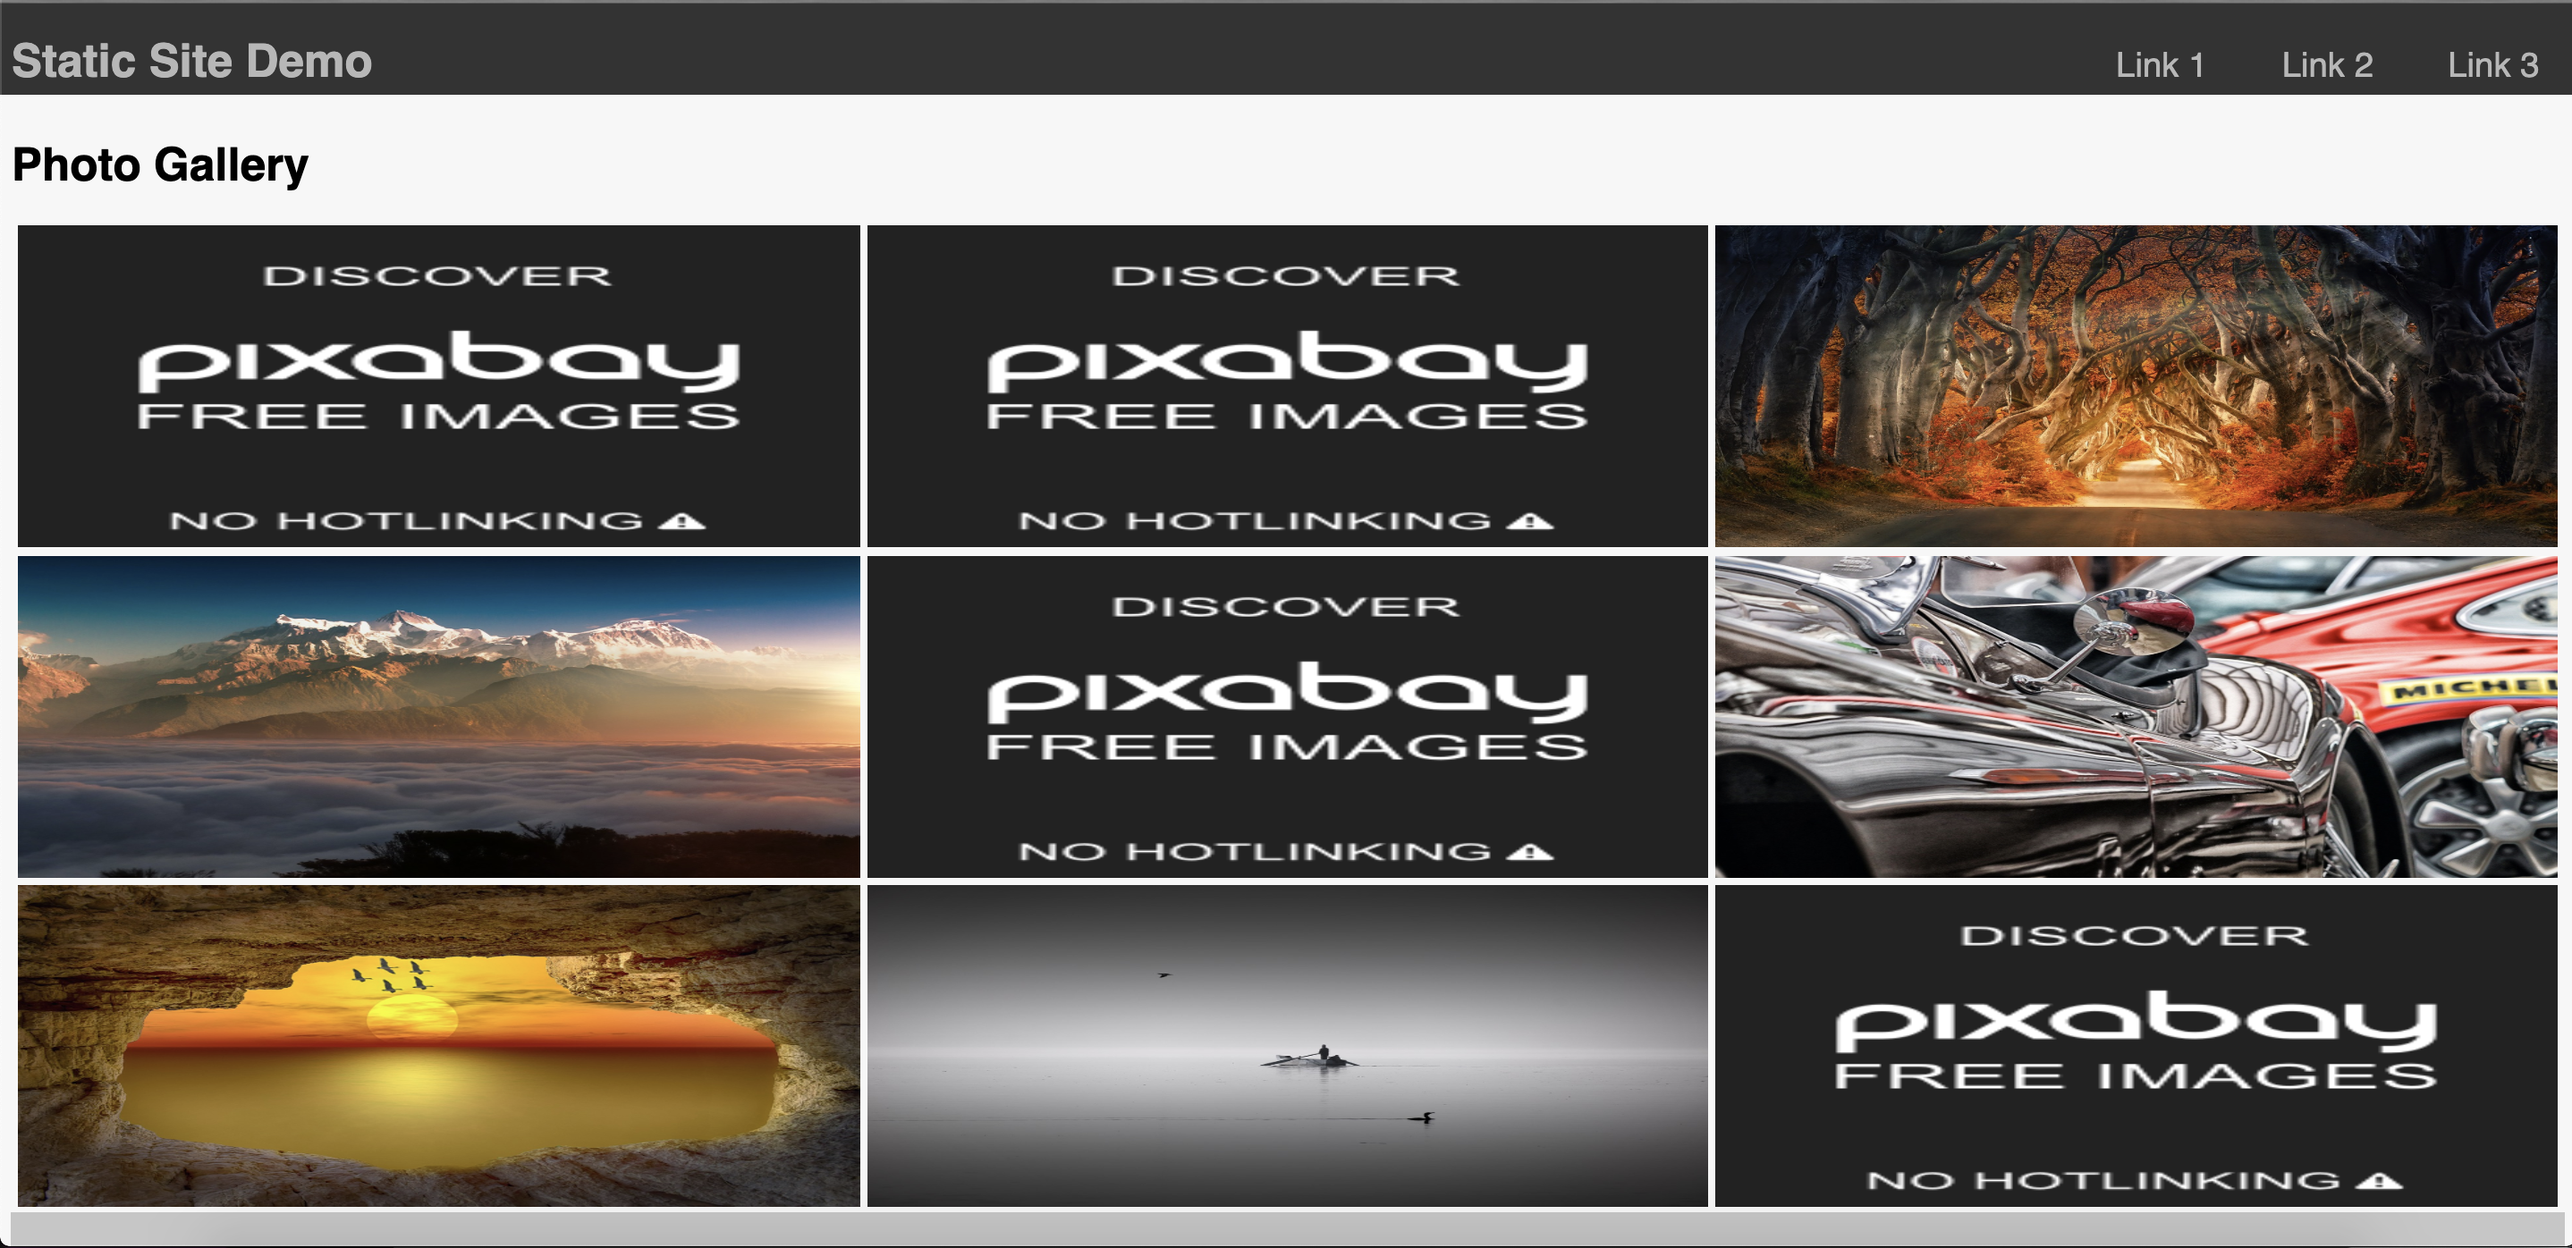
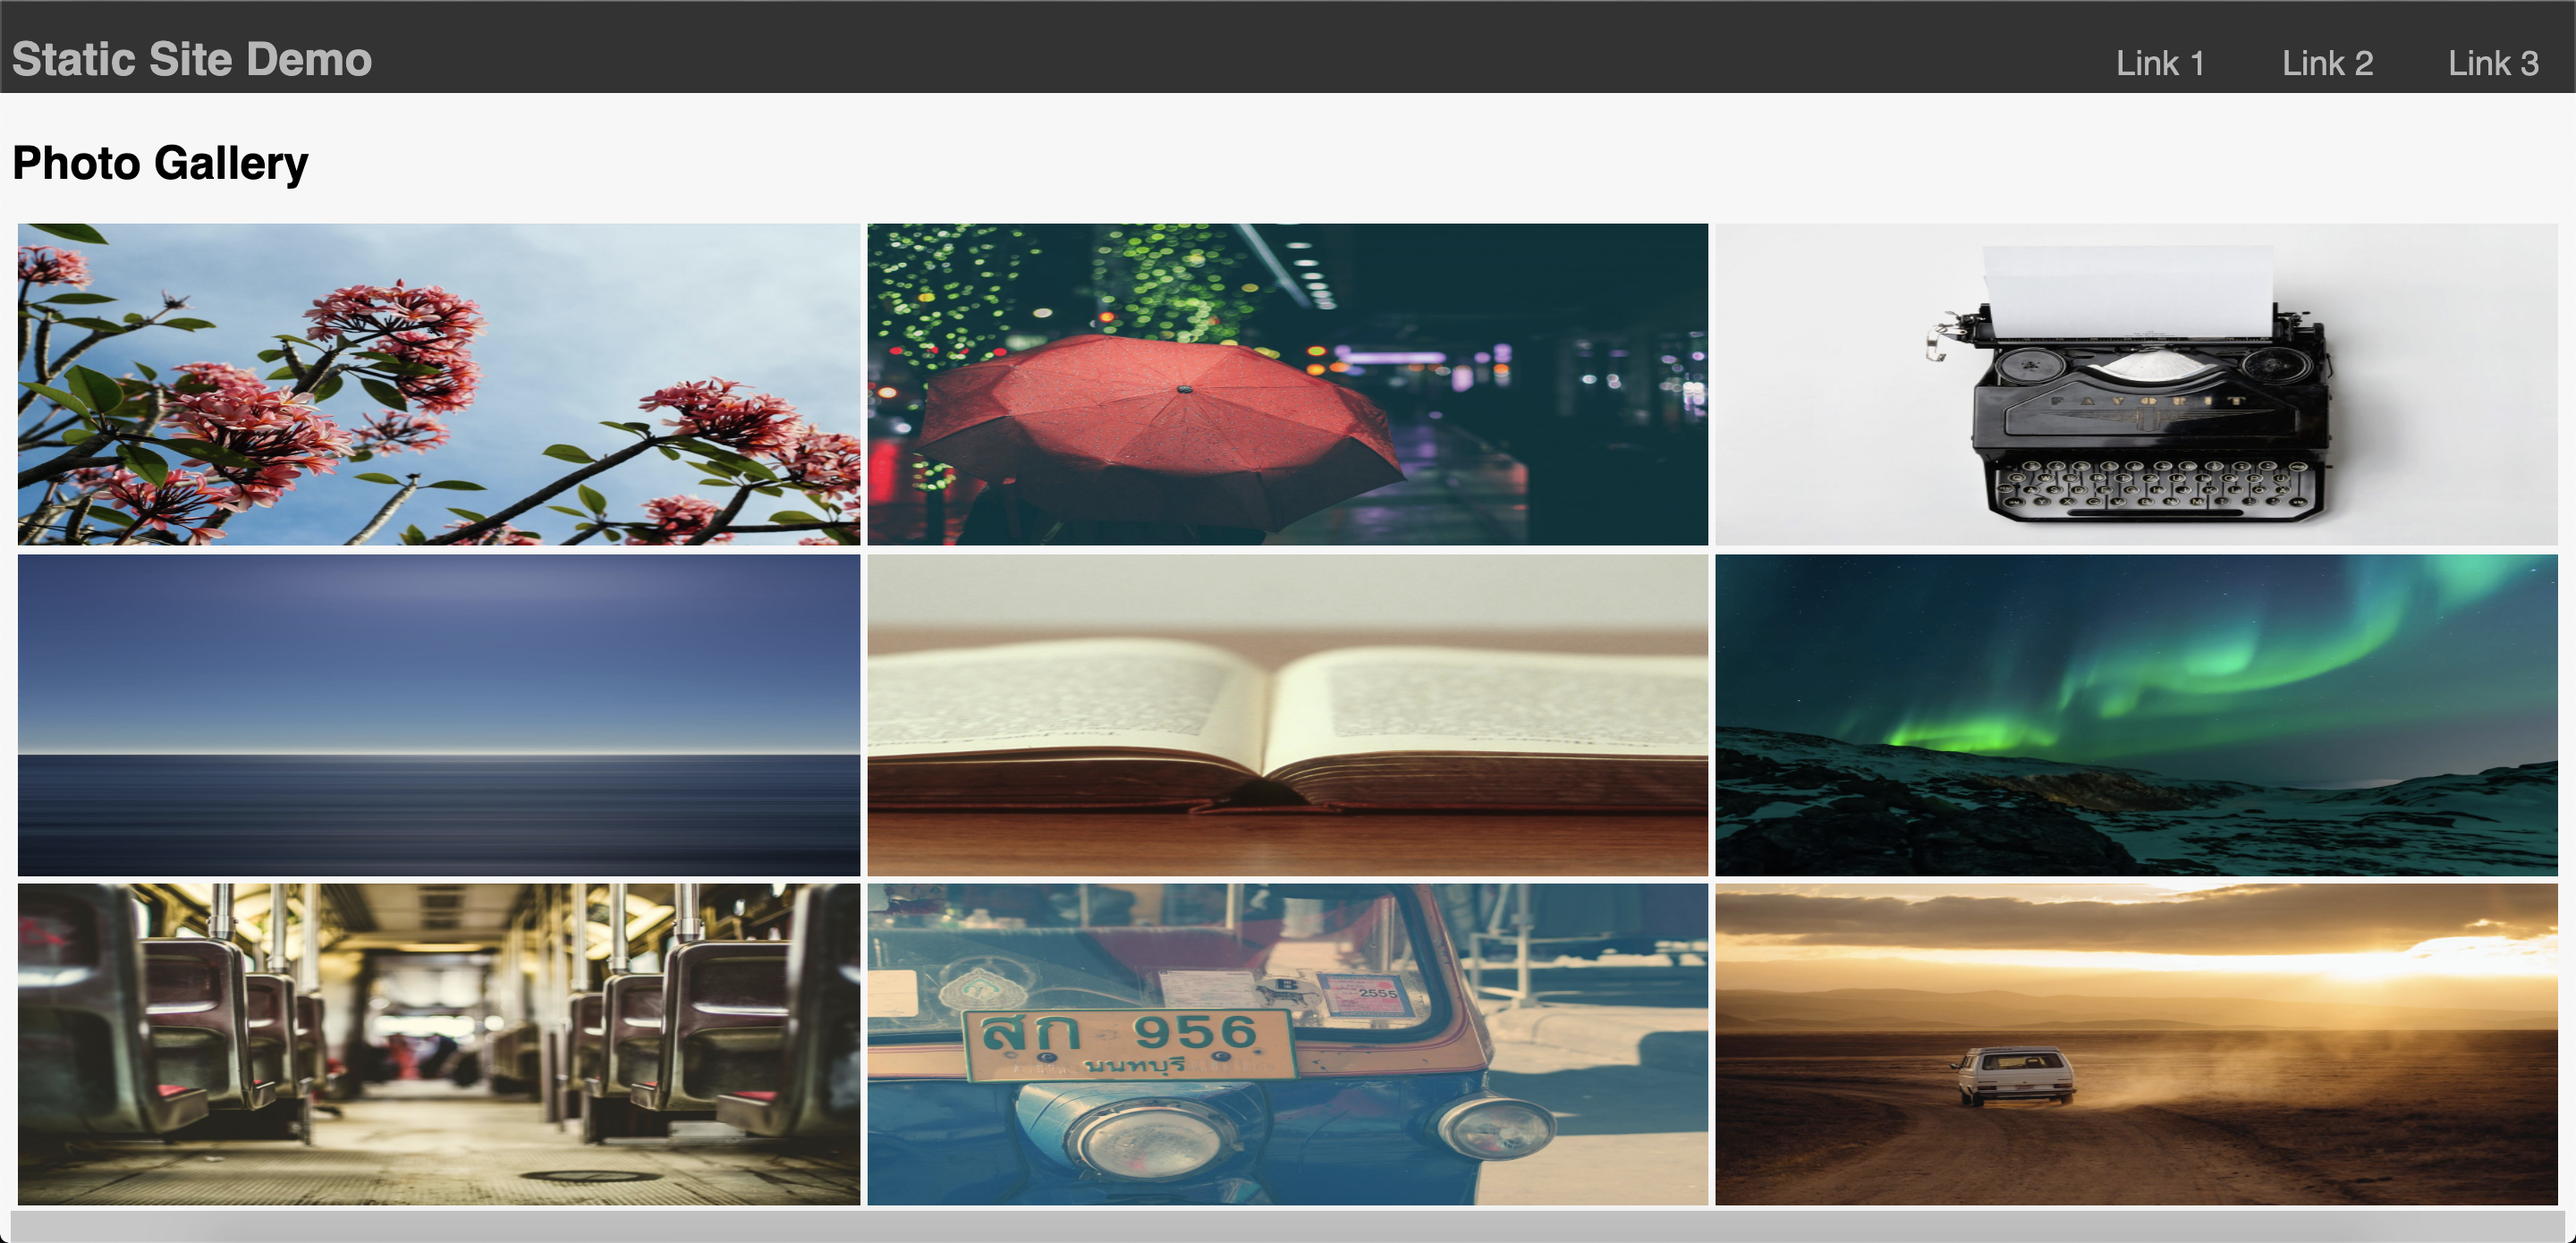
corrected images not loading

diff --git a/starter_code/index.html b/starter_code/index.html
@@ -16,15 +16,15 @@
         <main>
                 <h1>Photo Gallery</h1>
                 <div id="images-container">
-                    <img src="https://cdn.pixabay.com/photo/2019/04/09/15/55/landscape-4114839_1280.jpg">
-                    <img src="https://cdn.pixabay.com/photo/2019/04/02/10/58/oldtimer-4097480_1280.jpg">
-                    <img src="https://cdn.pixabay.com/photo/2019/03/31/21/43/the-dark-hedges-4094148_1280.jpg">
-                    <img src="https://cdn.pixabay.com/photo/2019/03/31/19/49/mountain-4093853_1280.jpg">
-                    <img src="https://cdn.pixabay.com/photo/2019/04/11/12/34/sea-4119698_1280.jpg">
-                    <img src="https://cdn.pixabay.com/photo/2019/04/03/18/37/oldtimer-4101076_1280.jpg">
-                    <img src="https://cdn.pixabay.com/photo/2019/04/07/11/24/landscape-4109455_1280.jpg">
-                    <img src="https://cdn.pixabay.com/photo/2019/04/10/18/08/black-4117714_1280.jpg">
-                    <img src="https://cdn.pixabay.com/photo/2019/04/07/11/24/spa-4109456_1280.jpg">
+                    <img src="https://picsum.photos/1200/900/?random=1">
+                    <img src="https://picsum.photos/1200/900/?random=2">
+                    <img src="https://picsum.photos/1200/900/?random=3">
+                    <img src="https://picsum.photos/1200/900/?random=4">
+                    <img src="https://picsum.photos/1200/900/?random=5">
+                    <img src="https://picsum.photos/1200/900/?random=6">
+                    <img src="https://picsum.photos/1200/900/?random=7">
+                    <img src="https://picsum.photos/1200/900/?random=8">
+                    <img src="https://picsum.photos/1200/900/?random=9">
                 </div>
                 <div id="bio-container">
                     <h2>Biography</h2>

diff --git a/completed_code/index.html b/completed_code/index.html
@@ -5,15 +5,16 @@ navbar_links:
     - Link 2
     - Link 3
 image_links:
-    - https://cdn.pixabay.com/photo/2019/04/09/15/55/landscape-4114839_1280.jpg
-    - https://cdn.pixabay.com/photo/2019/04/02/10/58/oldtimer-4097480_1280.jpg
-    - https://cdn.pixabay.com/photo/2019/03/31/21/43/the-dark-hedges-4094148_1280.jpg
-    - https://cdn.pixabay.com/photo/2019/03/31/19/49/mountain-4093853_1280.jpg
-    - https://cdn.pixabay.com/photo/2019/04/11/12/34/sea-4119698_1280.jpg
-    - https://cdn.pixabay.com/photo/2019/04/03/18/37/oldtimer-4101076_1280.jpg
-    - https://cdn.pixabay.com/photo/2019/04/07/11/24/landscape-4109455_1280.jpg
-    - https://cdn.pixabay.com/photo/2019/04/10/18/08/black-4117714_1280.jpg
-    - https://cdn.pixabay.com/photo/2019/04/07/11/24/spa-4109456_1280.jpg
+    - https://picsum.photos/1200/900/?random=1
+    - https://picsum.photos/1200/900/?random=2
+    - https://picsum.photos/1200/900/?random=3
+    - https://picsum.photos/1200/900/?random=4
+    - https://picsum.photos/1200/900/?random=5
+    - https://picsum.photos/1200/900/?random=6
+    - https://picsum.photos/1200/900/?random=7
+    - https://picsum.photos/1200/900/?random=8
+    - https://picsum.photos/1200/900/?random=9
+
 show_bio: false
 ---
 <!doctype html>
